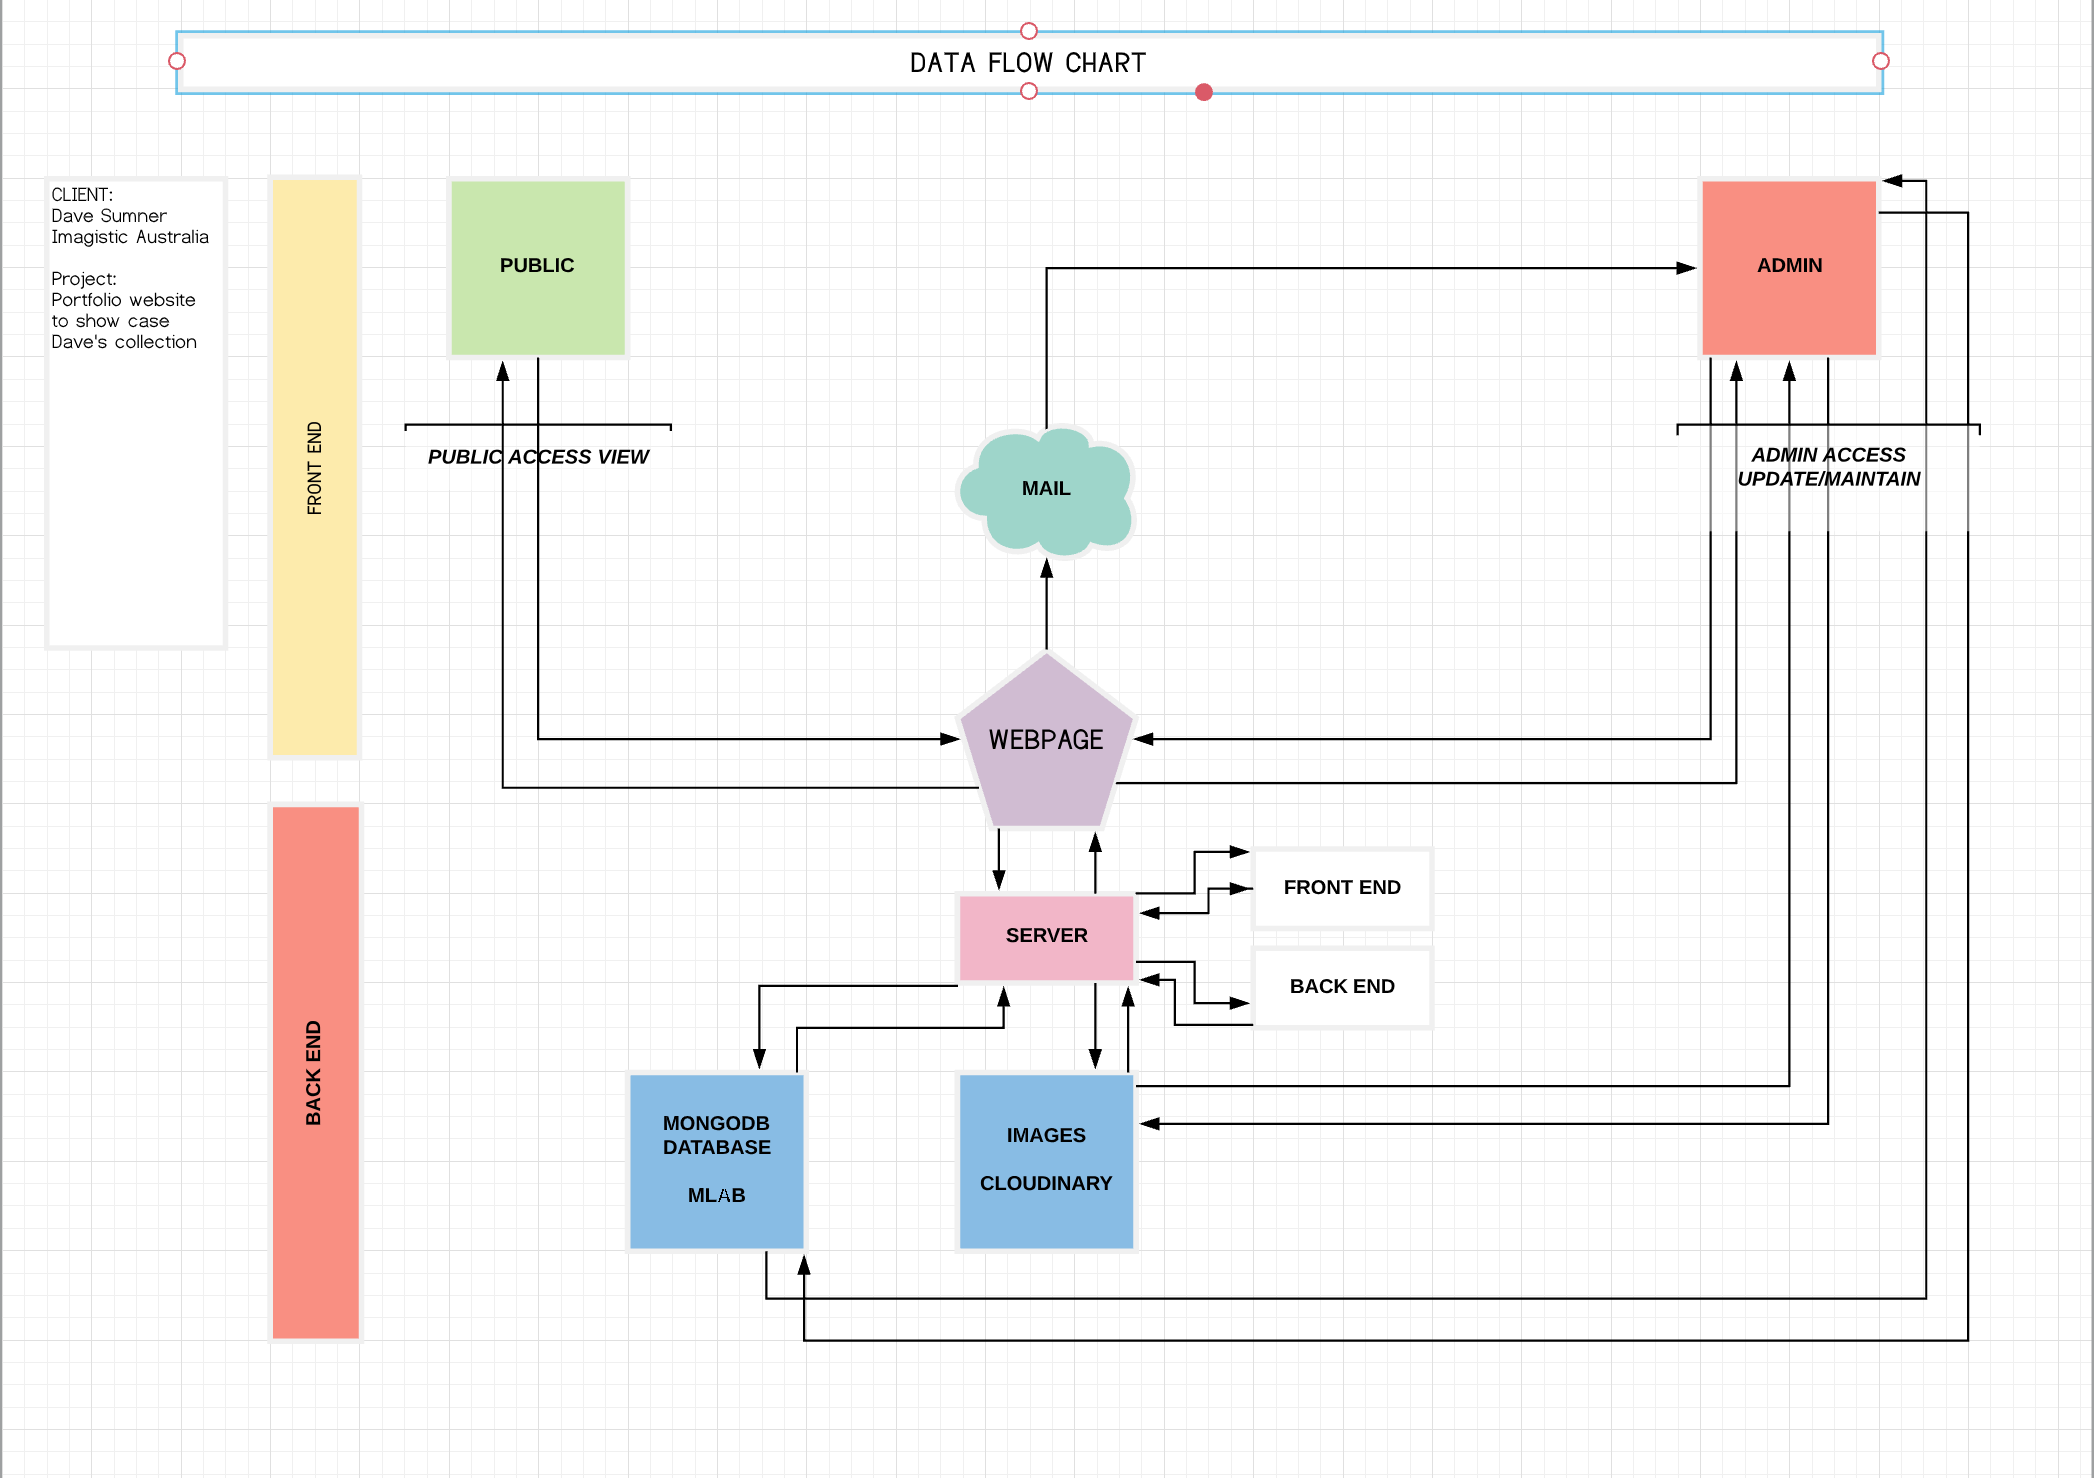
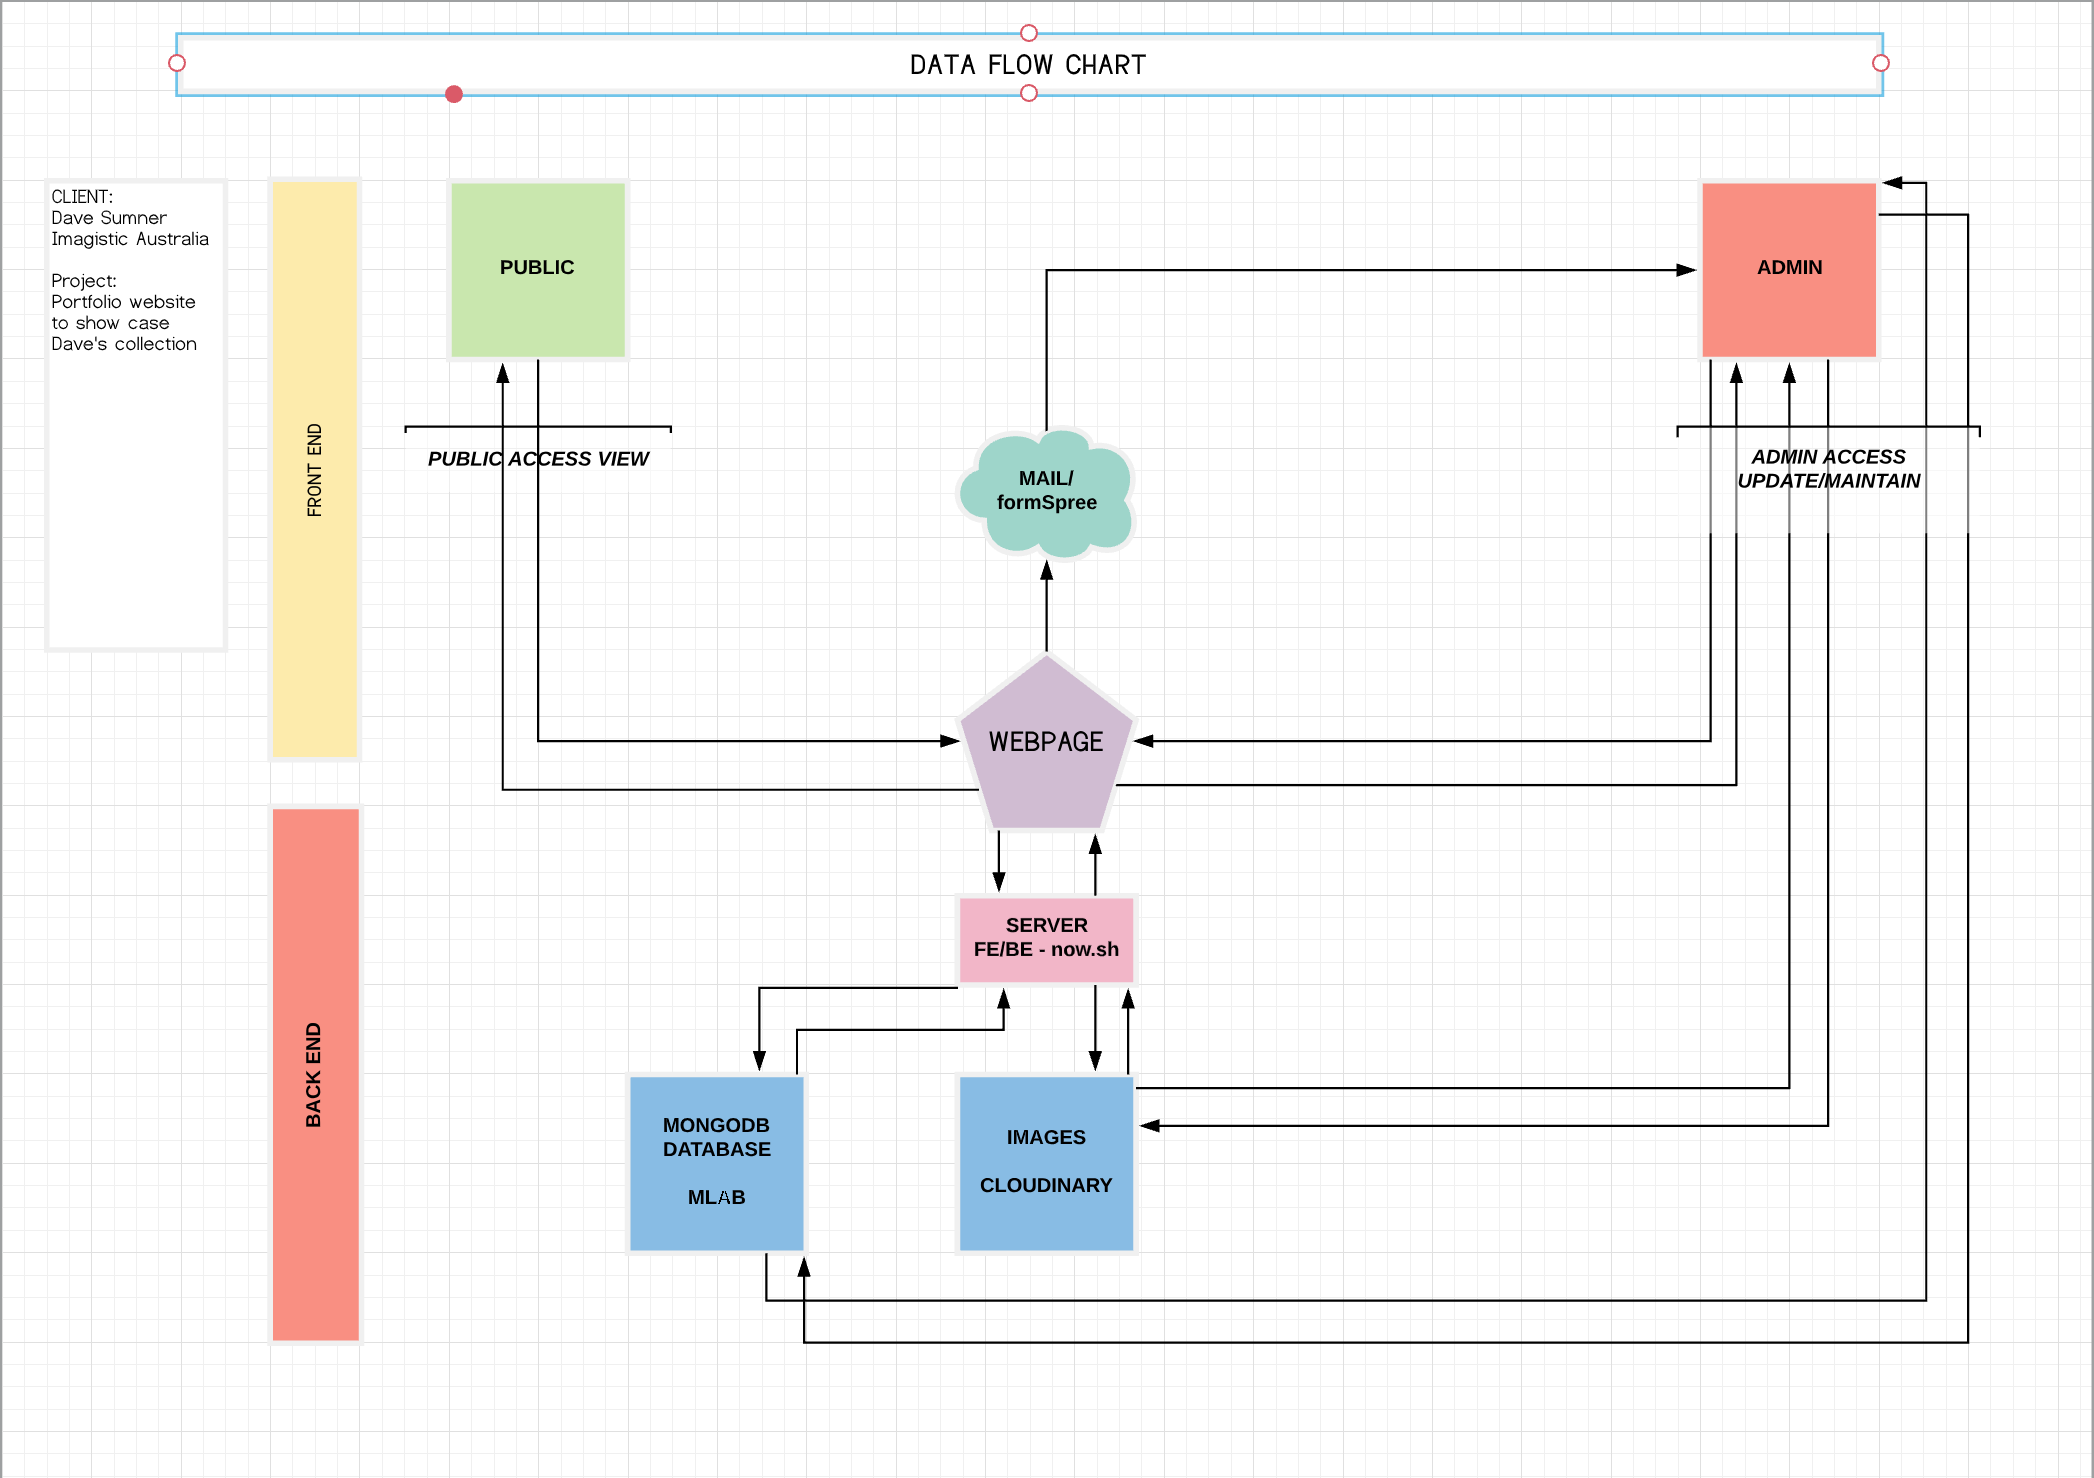
final push

diff --git a/README.md b/README.md
@@ -1,46 +1,119 @@
-**Mern Stack Assignment**
->Required stack: 
+<h1>Mern Stack Assignment</h1>
+<h2>Links</h2>
+
+<h3><a href="https://www.imagistic.now.sh">imagistic.now.sh</a></h3>
+
+<h3><a href="https://github.com/YongBong946/Imagistic-be">GitHub Repo</a></h3>
+
+----
+
+Required stack: 
 
 >Mongo
-- Mongodb is a scalable document model database, which stored in JSON format, and also allowing real time indexing and querying.
+- MongoDB is a scalable document model database, stored in JSON format, which allows for real time indexing and querying.
+
 >Express
 - A lightweight framework that helps the architecture of your application to follow MVC structure.
->React js
+
+>React js 
+
+- A javascript library built by facebook, for fast build UI interface with scalability by creating reusable UI components.
+
 >Node js
-
-
+- A runtime environment that allows javascript to be run outside a browser.
+---
+*A brief tour through the Imagistic site as a visitor*
 
  ![gif page](https://thumbs.gfycat.com/ComplicatedTerribleAlligatorsnappingturtle-size_restricted.gif)
 
 
+*Imagistic site as an admin* <br/>
+![admin gif page](https://thumbs.gfycat.com/BlaringFearlessClam-size_restricted.gif)
 
 
-  TODO:*Compose a summary of your application including problem definition and solution*
-  ><h3>Project:</h3> 
-  >Building a working website to show for a Professional photographer Dave Sumner to show his Portfolio.
-  >The application required a Dashboard page with access control for client to update and maintain his data.
+---
+  <h2>Project</h2> 
+  Building a working website for professional photographer Dave Sumner to showcase his Portfolio.
+  The application required a dashboard page with access control for the client to update and maintain his gallery and photos.
 
-FIXME:><h3>Problem definition:</h3>
->Data Schema
+<h2>Features of this application</h2>
 
-FIXME:><h3>Solutions</h3>
+1. Upon loading the page, visitors are brought to a splash page, featuring some of our client's work which transitions every five seconds or upon click.
+2. Our client is able to showcase his photography in a gallery.
+3. Visitors are able to sort through the gallery via the sidebar, which houses our album and tags filtering system.
+4. Visitors are able to get in touch with our client via the contact page.
+5. Visitors can read about our client in an About page.
+6. Client is able to upload, edit, and manage the photo gallery from a secure admin dashboard.
 
+<h2>Getting Started</h2>
+===
+This is a MERN stack project, and therefore will require MongoDB, Express, React, and NodeJs.
 
-   
-  TODO:*Review the conceptual design with the client and edit based on their feedback<strong>User stories</strong> for the whole application*
+<h3>Dependencies and Packages</h3>
+Packages used in this projects are listed in package.json.
+You will need to run the following snippet in your terminal :
 
+ ```bash 
+ $npm install
 
+ ```
+---
+<h2>Problems We Encountered</h2>
 
+>Data Schema 
+- Allowing schema relations between photos, albums, and tags. It was hard to decide on a particular data structure because we were not sure what site functionalities we were capable of producing in three weeks and what David himself wanted.
 
+>Naming Conventions
+- Repeated ID's and classNames became a problem when tackling CSS. We had forms with slight variations for uploading and editing, reusing the same code meant that some elements were inheriting CSS from the other page.
 
+>Passport Session 
+- Cookies were not appearing in the browser on inspect, but the session was still in place and was live for the assigned amount of time.
 
-
-
-
-
-  TODO:*Wireframes for all main pages of your app*
+>Deployment
+- We wanted to change the front end now.sh alias URL. After changing the URL, the images in the gallery was no longer loading.
   
-  *MongoDB Object Data Modeling Diagram* DONE!
+>Copyright Concerns
+- Our client is very concerned with the copyright and the legal usage of his photos. We were not sure there was much we can do about this because if they're determined enough, there's not much you can do to deter theft on the internet.
+---
+
+<h3>Solutions</h3>
+
+>Data Schema 
+- Setting a schema with an array of albums, and tags in the imageSchema. This allows both albums and tags to be related, without having to do a separate schema for each component.
+
+>Naming conventions 
+- We found refactoring code helps, in cleaning up the names within the divs on each page, to eliminate repeats, and to reflect better. 
+
+>Passport Session
+- We found that CORS was blocking the cookies. Setting defaults on CORS to send with credentials solved the problem.
+  
+>Deployment 
+- Whitelist URL in adblocker and enable cookies in privacy badger.
+
+>Copyright Concerns
+- To help protect the client's IP, we disabled all right clicks on images. There are still ways around this but we thought this little deterrent would discourage most average visitors.
+---
+<h2>USER STORIES</h2>
+<h3>As a Photographer</h3>
+
+- I want a website that can host my photos, allowing public to view them, sort through them by albums and tags.
+- I want to be able to edit, upload, and delete my images through a secure channel.
+  
+<h3>As a Visitor</h3>
+
+- I want to be able to sort through the gallery easily so that I can find photos that I am looking for.
+- I want to be able to look at an individual image and see a brief description.
+- I want to be able to read a bit about the photographer himself so that I can understand his work better.
+- I want to be able to contact the photographer so that I can commission/ask him quesiton.
+---
+<h2>Wireframes</h2>
+
+  *Figma*
+  ![wireframing](/docs/wireFraming.png)
+
+---
+<h2>MongoDB Object Data Modeling Diagram</h2>
+
   ```json
 userSchema = new mongoose.Schema({
   username: {
@@ -83,106 +156,107 @@ imageSchema = new mongoose.Schema({
   ```
   ***
 
-**Project plan and effort estimation**<br/>
+<h2>Project Plan and Timeline</h2>
 A 3 weeks long project which started on Jan 21, and end in Feb 7, 2019.
 
 *Project TimeLine*
 ![Project Time Line](/docs/projectTimeline.png)
 
-*A workflow diagram of the user journey/s*
-
 *User Flow Chart*
 ![User Flow Chart](/docs/userFlowChart.png)
 
-  *Data Flow Diagram*
-  ![Data Flow Chart](/docs/dataFlowChart.png)
+*Data Flow Diagram*
+![Data Flow Chart](/docs/dataFlowChart.png)
 
-  *App Tree Structure*
+*App Tree Structure*
+![App Tree Structure](/docs/appTreeStructure.png)
 
-   ![App Tree Structure](/docs/appTreeStructure.png)
+*Trello*
+![Trello1](/docs/Trello1.png)
+![Trello2](docs/Trello2.png)
 
-
+*Client Communications*
+![CC](docs/Client&#32;Interaction.png)
 **Tools**
 Trello, Github, Agile methodologies, Code Review
 Demonstrate your project management skills, Client meeting minutes, and other communication tools
 
-
-TODO:<h1>Requirements - Short Answer Questions</h1>
+---
+<h1>Short Answer Questions</h1>
 
 <h2>What are the most important aspects of quality software?</h2>
->There are no one most important aspect. A quality software or application rely on their interconnecting functions, architectural side of the application, and performance of the application that allows the software itself to be maintained, scaled, and improved over time. This allow a healthy relationship where users and development team bond a connection in keeping the software at optimum level.
-
+There is no one most important aspect. Quality software or applications rely on their interconnecting functions, the application architecture, and performance. This allows the software itself to be maintained, scaled, and improved over time. This fosters a healthy relationship between users and the development team and this connection kepps the software at optimum level.
 
 <h2>What libraries are being used in the app and why?</h2>
-<h3>Front End packages</h3>
-<h4>"axios": "^0.18.0"</h4>
-A request based library used to perform http requests. It takes care of the data transformation to JSON. It is a promise based, offers better error handling and has cross site forgery protection.
+Front End packages :
 
-<h4>"react": "^16.7.0"</h4>
-A flexible library that build user interface based on components set on how and what to render. Using a virtual DOM to run data that gets display on your page without refreshing.
+- "axios": "^0.18.0"
+A request based library used to perform http requests. It takes care of the data transformation to JSON. It is promise based, offers better error handling and has cross site forgery protection.
 
+- "react": "^16.7.0"
+A flexible library that builds user interface based on components set on how and what to render. Using a virtual DOM to run data that gets displayed on your page without refreshing.
 
-
-<h4>"react-dom": "^16.7.0"</h4>
-<h4>"react-router-dom": "^4.3.1"</h4>
+- "react-router-dom": "^4.3.1"
 A React routing library.
 
+Back End packages :
 
-***
-<h3>Back End packages</h3>
-<h4>"bcrypt": "^3.0.3"</h4>
-A program that hashes passwords by incorporating "salt", data used as part of the hashing resulting in a stronger, more complex hash to protect the password<br/>
+- "bcrypt": "^3.0.3"
+A program that hashes passwords by incorporating "salt", data used as part of the hashing results in a stronger,more complex hash to protect the password.<br/>
 
-<h4>"cloudinary": "^1.13.2"</h4>
+- "cloudinary": "^1.13.2"
 A package developed by Cloudinary integrating access between API to its cloud server. Cloudinary is a platform that hosts media files.
 
-<h4>"concurrently": "^4.1.0"</h4>
-A package that lets you run multiple scripts concurrently.
+- "concurrently": "^4.1.0"
+A package that lets you run multiple scripts concurrently in development stages by combining back end and front end.
 
-<h4>"cookie-session": "^2.0.0-beta.3"</h4>
-A package that allows you to create a cookie that stores user credentials in a cookie and store in temporary local storage with the ability to set time to auto destroy, or when browser is closed.
+- "cookie-session": "^2.0.0-beta.3"
+A package that allows you to create a cookie that stores user credentials in temporary local storage with the ability to set time to auto destroy, or when browser is closed.
 
-<h4>"cors": "^2.8.5"</h4>
+- "cors": "^2.8.5">
 Cross-Origin Resource Sharing, a package that allows it's user to set up access control to allow communication between 2 or more domains into your API.
 
-<h4>"dotenv": "^6.2.0"</h4>
+- "dotenv": "^6.2.0"
 A stand alone module that loads environment variables, allowing user to set password and other sensitive information on a separate file, that can be hidden away from the code. This flow is based on the twelve factor app methodology.
 
-<h4>"express": "^4.16.4"</h4>
+- "express": "^4.16.4"
 A light-weight framework that preps your app with MVC architecture.
 
-<h4>"mongoose": "^5.4.5"</h4>
+- "mongoose": "^5.4.5"
 A MongoDB relationship manager between data, runs a schema validation.
 
-<h4>"multer": "^1.4.1"</h4>
+- "multer": "^1.4.1"
 A middleware that helps upload files.
 
-<h4>"passport": "^0.4.0"</h4>
+- "passport": "^0.4.0"
 An authentication middleware
 
-<h4>"passport-local": "^1.0.0"</h4>
+- "passport-local": "^1.0.0"
 A local authentication middleware
 
 <h2>A team is about to engage in a project, developing a website for a small business. What knowledge and skills would they need in order to develop the project?</h2>
 
->Understanding client "User Stories". and good understanding on what client is currently using, versus expectations with allowed time frame and budget.<br/>
->Adopting Agile methodology in aiding the team to complete the project in timely and healthy manner.<br/>
->Task assignment within the team to allow function separation in accordance to the project priority to allow completion within time frame.
-
+- Understanding client "User Stories" and a good understanding on what the client is currently using, versus expectations with the allowed time frame and budget.
+- Adopting Agile methodology in aiding the team to complete the project in timely and healthy manner.
+- Task assignment within the team to allow function separation in accordance to the project priority to allow completion within time frame.
 
 <h2>Within your own project what knowledge or skills were required to complete your project, and overcome challenges?</h2>
 
->Standups -
-This allow focus and direction within the team.<br/>
-Planning, wireframing, design in figma, and updates in trello.<br/>
-Go outside your comfort zone. Ask colleaques, teachers or even rubber ducking when facing road blocks.
+- Standups :
+This allows focus and direction within the team.
+- Planning, wireframing, designing in figma, and updates in trello.
+- Go outside your comfort zone. Ask colleaques, teachers or even rubber ducking when facing road blocks.
 
 
 <h2>Evaluate how effective your knowledge and skills were this project, using examples, and suggest changes or improvements for future projects of a similar nature?</h2>
 
->Having to complete the first 6 months within Coder Academy, this time round as a team, we felt that we are more prepared conceptually, and able to have a better understanding on how to approach certain task on hand. The course has also made us become a better "googler".<br/> 
+- Having to complete the first 6 months within Coder Academy, this time as a team, we felt that we are more prepared conceptually, and able to have a better understanding on how to approach certain task on hand. The course has also made us become a better "googler". 
 
->Agile methodology is a powerful tool that everyone should be holding on to. It is definitely a tool that is worth looking deeper into to understand how it can be applied once we are in the workforce.
+- Agile methodology is a powerful tool that everyone should be holding on to. It is definitely a tool that is worth looking deeper into to understand how it can be applied once we are in the workforce.
+
+- Implementing private galleries: so the client can take on clients of his own and host images in a private gallery for private perusing. 
+
+- Implementing mass upload: at the moment we only have the ability to upload one image at a time. Mass upload would be useful feature to have. 
 
 ***
 
